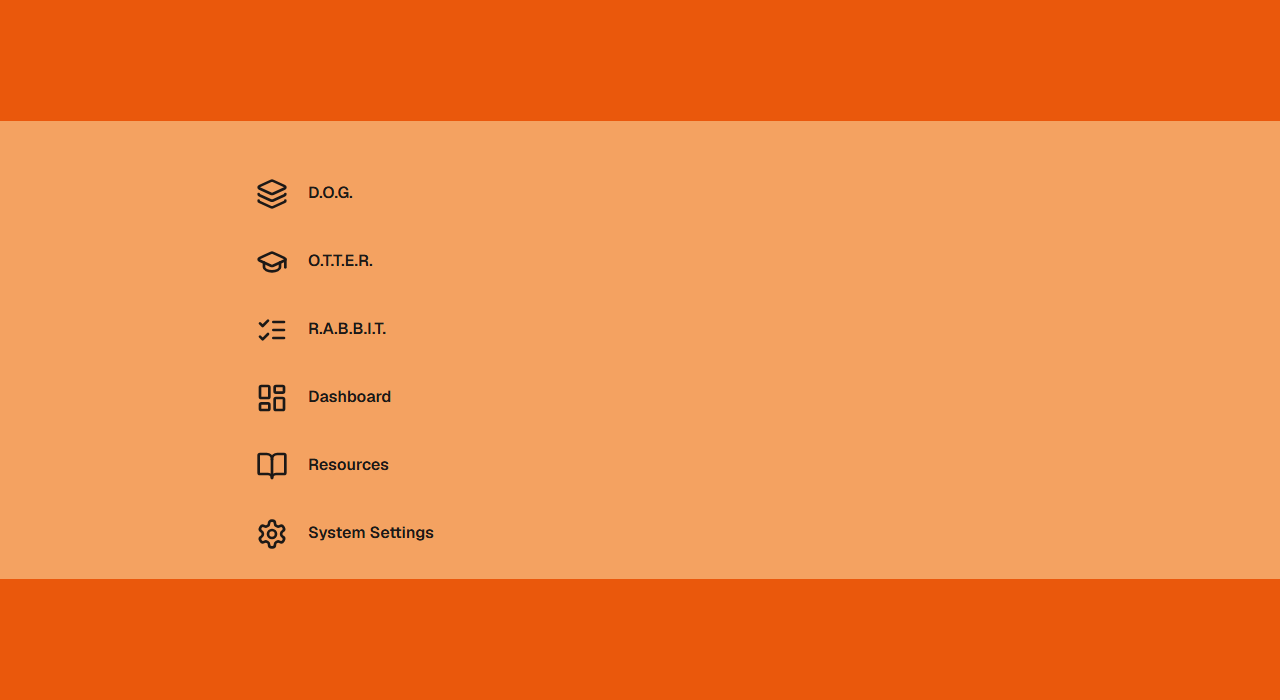
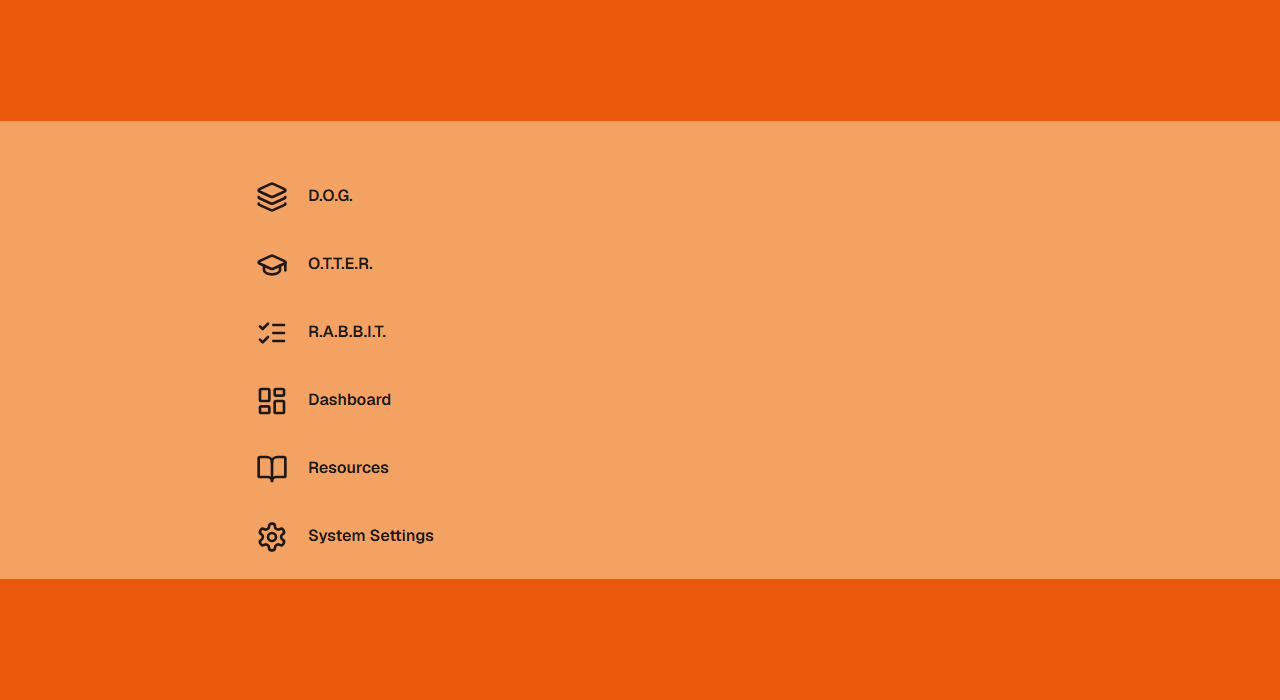
docs(ui/d2): screenshots re-taken on the integrated tree, integration commit recorded
The ten PNGs now show D2's surfaces inside F2's shell rather than inside the
pre-merge one, which is the state Audrey will actually open. Home's type
re-verified in the DOM after the merge: 16px, weight 600, no transform, normal
tracking, Geist, rgb(28, 25, 23).

feat/ui-overhaul fast-forwarded from F2's 2089428 to 7f46e7f.

diff --git a/WILSON/docs/sessions/handoffs/ui-d2-2026-09-11.md b/WILSON/docs/sessions/handoffs/ui-d2-2026-09-11.md
@@ -14,7 +14,7 @@ Prep, written before the work: `ui-d2-prep-2026-09-11.md` in this folder —
 | Bundle | **D2 — auth, onboarding, Help, Home fonts.** Complete. |
 | Branch | `ui/d2-auth-help-home`, cut from `origin/feat/ui-overhaul` at `d2238ca` (F1's hand-off commit) |
 | Last commit | see `git log --oneline` on the branch; the integration merge is `d2b03bc` |
-| Merged into `feat/ui-overhaul` | **yes** — integrated per plan §6.3 (`merge --no-ff origin/feat/ui-overhaul`, `vitest`, `push origin HEAD:feat/ui-overhaul`) |
+| Merged into `feat/ui-overhaul` | **yes**, at **`7f46e7f`** — integrated per plan §6.3 (`merge --no-ff origin/feat/ui-overhaul`, `vitest`, `push origin HEAD:feat/ui-overhaul`), fast-forwarding it from F2's `2089428`. |
 | Model | Opus 5 (`claude-opus-5`), as the chip named |
 
 Ten commits, in order: the prep; the state extraction; the bundle; the
@@ -36,7 +36,7 @@ config that a `git add -A` in the merge had re-added.
 | Edge Functions | none deployed. |
 | pgTAP | not run and not relevant — no RLS surface changed. |
 | CI | `rls.yml` runs on `ui/**` pushes. `gh` is not authenticated in this worktree (`gh auth login` / `GH_TOKEN` both absent), so the run's result could not be read from here. It is at <https://github.com/pretty-aud/wilson/actions?query=branch%3Aui%2Fd2-auth-help-home>. **Someone with `gh` should confirm it green.** |
-| Screenshots | ten PNGs in `docs/sessions/handoffs/img/`, `d2-*`, at 1440x900 and 1280x700: sign-in step 1 and step 2, Home, Help (a D.O.G. section and a Wilson section). |
+| Screenshots | ten PNGs in `docs/sessions/handoffs/img/`, `d2-*`, at 1440x900 and 1280x700: sign-in step 1 and step 2, Home, Help (a D.O.G. section and a Wilson section). **Re-taken after the integration merge**, so they show D2 inside F2's shell — the page header reads "Help" in sentence case because that is F2's, not D2's. |
 
 ---
 
